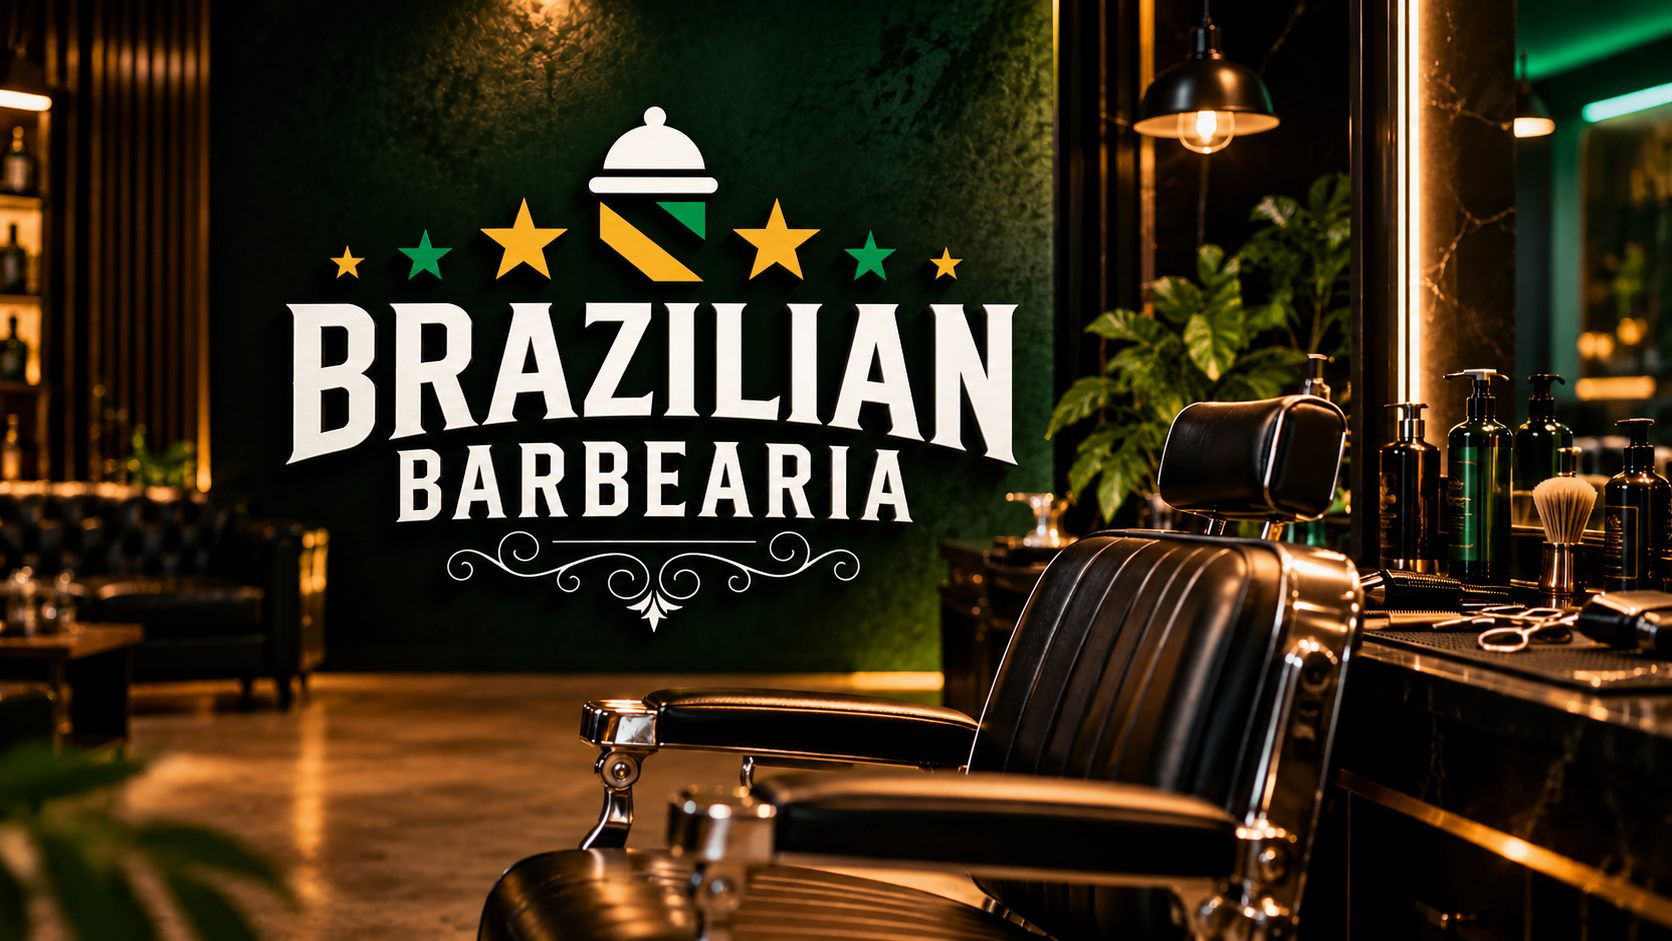
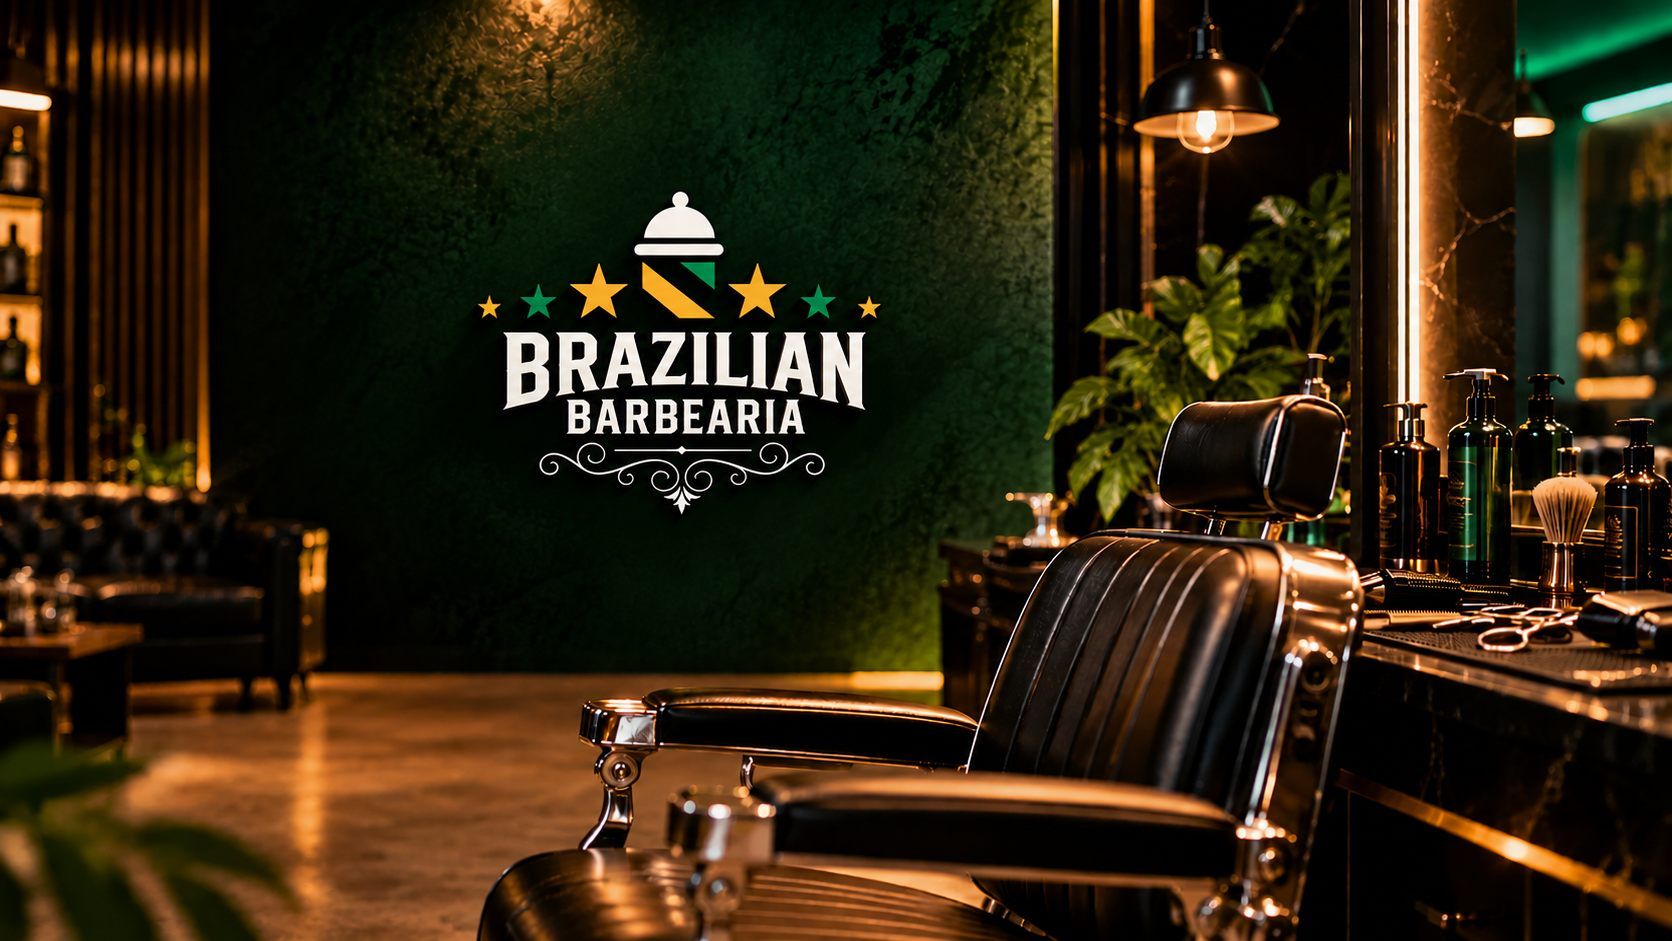
feat: nova arte do hero com logotipo compacto; mobile centraliza o letreiro da propria arte
- hero-bg.jpg regenerado da nova arte oficial (logotipo menor, centro em ~41%
  da largura; 208 KB)
- mobile retrato: apenas object-position (40.5%, calibrado visualmente)
  centraliza o nome na tela — sem logotipo sobreposto, sem nome duplicado
- removidos: div .hero__logo, CSS do overlay/veu/zoom intermediario,
  img/logo-hero.png e _logo_alpha.ps1 (orfaos da tecnica anterior)
- README atualizado

diff --git a/css/styles.css b/css/styles.css
@@ -263,52 +263,15 @@ body::after {
 .hero__media img {
   width: 100%; height: 100%;
   object-fit: cover;
-  /* mantém a área do logotipo (lado esquerdo da arte) visível em telas estreitas */
+  /* mantém a área do logotipo da arte visível em janelas intermediárias */
   object-position: 28% center;
 }
-.hero__logo { display: none; }
 
-/* Em telas estreitas a arte horizontal não cabe: o cover mostra só ~1/4 da
-   largura e o letreiro sai cortado. Então afastamos a foto para o lado da
-   cadeira (sem texto) e sobrepomos o logotipo em PNG com alfa real
-   (gerado por _logo_alpha.ps1) — sem mix-blend-mode, que o Safari/iOS
-   não aplica de forma confiável dentro de um ancestral sticky. */
+/* Em telas estreitas (retrato) a arte horizontal não cabe inteira: o
+   object-position centraliza o letreiro da própria arte na tela ("BRAZILIAN"
+   ocupa 30,4%–51,4% da largura da imagem; centro em ~41%). */
 @media (max-width: 760px) and (orientation: portrait) {
-  /* fatia 100% à direita: o letreiro embutido na arte sai do enquadramento
-     (só o logotipo sobreposto aparece — nunca o nome duplicado).
-     Em paisagem a arte inteira cabe na tela: valem as regras de desktop. */
-  .hero__media img { object-position: 100% center; }
-  /* véu à esquerda: em larguras intermediárias (~600-760px) a fatia ainda
-     alcança a borda das letras; o gradiente as funde no escuro */
-  .hero__scrim {
-    background:
-      linear-gradient(to right, rgba(10, 20, 15, 0.85), transparent 40%),
-      linear-gradient(to top, rgba(10, 20, 15, 0.45) 0%, transparent 28%);
-  }
-  .hero__logo {
-    display: block;
-    position: absolute;
-    left: 50%;
-    top: 50%;
-    /* centralizado na tela (leve ajuste para cima: o indicador "role"
-       ocupa a base) */
-    transform: translate(-50%, -54%);
-    width: min(86vw, 24rem);
-    aspect-ratio: 637 / 499;
-    background: url("../img/logo-hero.png") center / contain no-repeat;
-    filter: drop-shadow(0 2px 14px rgba(0, 0, 0, 0.55));
-  }
-}
-/* Faixa intermediária (600-760px retrato): mesmo com a fatia 100% à direita,
-   a janela é larga demais e alcançaria o letreiro da arte. Ampliamos a caixa
-   da imagem na vertical (o cover escala junto) para a fatia visível caber na
-   área sem letras. Sem transform: o GSAP anima scale da mesma imagem. */
-@media (min-width: 600px) and (max-width: 760px) and (orientation: portrait) {
-  .hero__media img {
-    position: relative;
-    height: 130%;
-    top: -15%;
-  }
+  .hero__media img { object-position: 40.5% center; }
 }
 /* véu leve: só um vinhete sutil para o indicador de scroll — a arte fica nítida */
 .hero__scrim {

diff --git a/index.html b/index.html
@@ -86,11 +86,9 @@
     <!-- ============ SEÇÃO 1 — HERO ============ -->
     <section class="hero" id="inicio" aria-label="Apresentação">
       <div class="hero__media" aria-hidden="true">
-        <!-- imagem oficial do hero (contém o logotipo) -->
+        <!-- imagem oficial do hero (contém o logotipo; no mobile o CSS
+             centraliza o letreiro da própria arte) -->
         <img src="img/hero-bg.jpg" alt="" width="1672" height="941" fetchpriority="high">
-        <!-- em telas estreitas o letreiro da arte sai do enquadramento; este
-             elemento recebe o logotipo completo via CSS (só carrega no mobile) -->
-        <div class="hero__logo"></div>
         <div class="hero__scrim"></div>
       </div>
       <!-- Título mantido invisível para SEO e leitores de tela -->

diff --git a/README.md b/README.md
@@ -9,7 +9,7 @@ Landing page premium da **Brazilian Barbearia** — Rua Manoel Novais, 600, Paul
 | Desktop | Mobile |
 |---|---|
 | ![Cardápio de preços](docs/screenshots/cardapio.jpg) | ![Cardápio no celular](docs/screenshots/cardapio-mobile.jpg) |
-| ![Galeria antes/depois](docs/screenshots/galeria.jpg) | ![Hero no iPhone — logotipo completo sobreposto](docs/screenshots/hero-mobile.jpg) |
+| ![Galeria antes/depois](docs/screenshots/galeria.jpg) | ![Hero no celular — letreiro da arte centralizado](docs/screenshots/hero-mobile.jpg) |
 
 | | |
 |---|---|
@@ -92,7 +92,7 @@ Quando o domínio oficial existir, atualize em 4 lugares:
 ## 7. Fotografias e vídeos
 
 - As imagens vivem em `img/`. **Não renomeie os arquivos existentes** sem atualizar os caminhos em `index.html` e `js/products.js`.
-- Hero usa `img/hero-bg.jpg` (versão web otimizada da arte oficial com o logotipo). Em telas ≤ 760 px a arte horizontal não cabe (o `cover` mostra ~1/4 da largura e cortaria o letreiro): o CSS desloca a foto para o lado da cadeira e sobrepõe `img/logo-hero.png` — PNG com transparência real gerado de `img/logo.jpeg` pelo script `_logo_alpha.ps1` (rodar com Windows PowerShell 5.1). Não usamos `mix-blend-mode` porque o Safari/iOS não o aplica de forma confiável dentro de ancestral `position: sticky`. Sobre usa `img/carlos-retrato.png` (retrato recortado, fundo transparente); a galeria usa os pares `antes*/depois*` e `video trabalho.mp4`; a Localização exibe um mapa incorporado do Google Maps (sem chave de API, via `output=embed`).
+- Hero usa `img/hero-bg.jpg` (JPEG otimizado gerado da arte oficial, cujo logotipo compacto tem o centro em ~42% da largura). Em telas estreitas (retrato) o CSS centraliza o letreiro da própria arte via `object-position: 38%`; em paisagem e desktop a arte aparece inteira — sem sobreposição de logotipo e sem nome duplicado. Sobre usa `img/carlos-retrato.png` (retrato recortado, fundo transparente); a galeria usa os pares `antes*/depois*` e `video trabalho.mp4`; a Localização exibe um mapa incorporado do Google Maps (sem chave de API, via `output=embed`).
 - Para trocar uma foto, substitua o arquivo mantendo o nome, ou atualize o `src` + atributos `width`/`height` correspondentes (eles evitam layout shift).
 - Vídeos: use MP4 curto, `preload="metadata"`, nunca autoplay com áudio.
 
